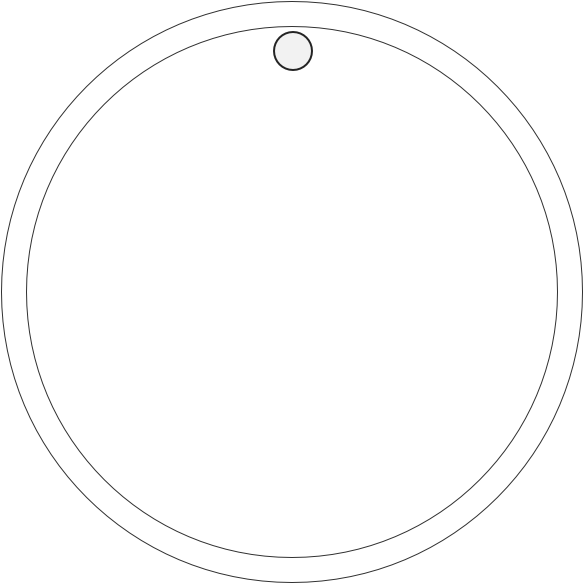
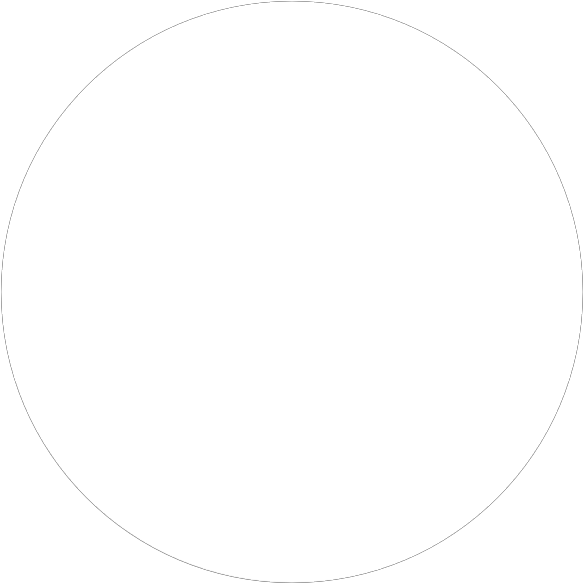
Add new cursor

diff --git a/flare-sdk/Trilateral/Trilateral/CatalogCell.swift b/flare-sdk/Trilateral/Trilateral/CatalogCell.swift
@@ -22,17 +22,33 @@ class CatalogCell : UICollectionViewCell {
     @IBOutlet weak var cardContainer: UIView!
     @IBOutlet weak var compass: DirectionView!
     
+    private weak var overlayCursor: UIImageView?
+    
+    override func awakeFromNib() {
+        super.awakeFromNib()
+        let image = UIImage(named: "compass.png")
+        let renderedImage = image?.imageWithRenderingMode(.AlwaysTemplate)
+        compass.image = renderedImage
+        let overlay = UIImageView(image: UIImage(named: "compass-cursor@2x.png"))
+        overlay.contentMode = .ScaleToFill
+        overlay.frame = compass.bounds
+        overlayCursor = overlay
+        compass.addSubview(overlay)
+    }
+    
+    override func layoutSubviews() {
+        super.layoutSubviews()
+        if let overlayCursor = overlayCursor {
+            overlayCursor.frame = compass.bounds
+        }
+    }
+    
     func update(thing: Thing, device: Device) {
         nameLabel.text = thing.name
         cardContainer.backgroundColor = thing.uiColor
         nameLabel.textColor = thing.uiColor == UIColor.whiteColor() ? .blackColor() : .whiteColor()
         subnameLabel.textColor = nameLabel.textColor
-        
-        let image = UIImage(named: "compass.png")
-        let renderedImage = image?.imageWithRenderingMode(.AlwaysTemplate)
-        compass.image = renderedImage
         compass.tintColor = thing.uiColor
-        
         let rads = degreesToRadians(device.angleTo(thing)) - degreesToRadians(device.angle())
         compass.angle = rads
     }
